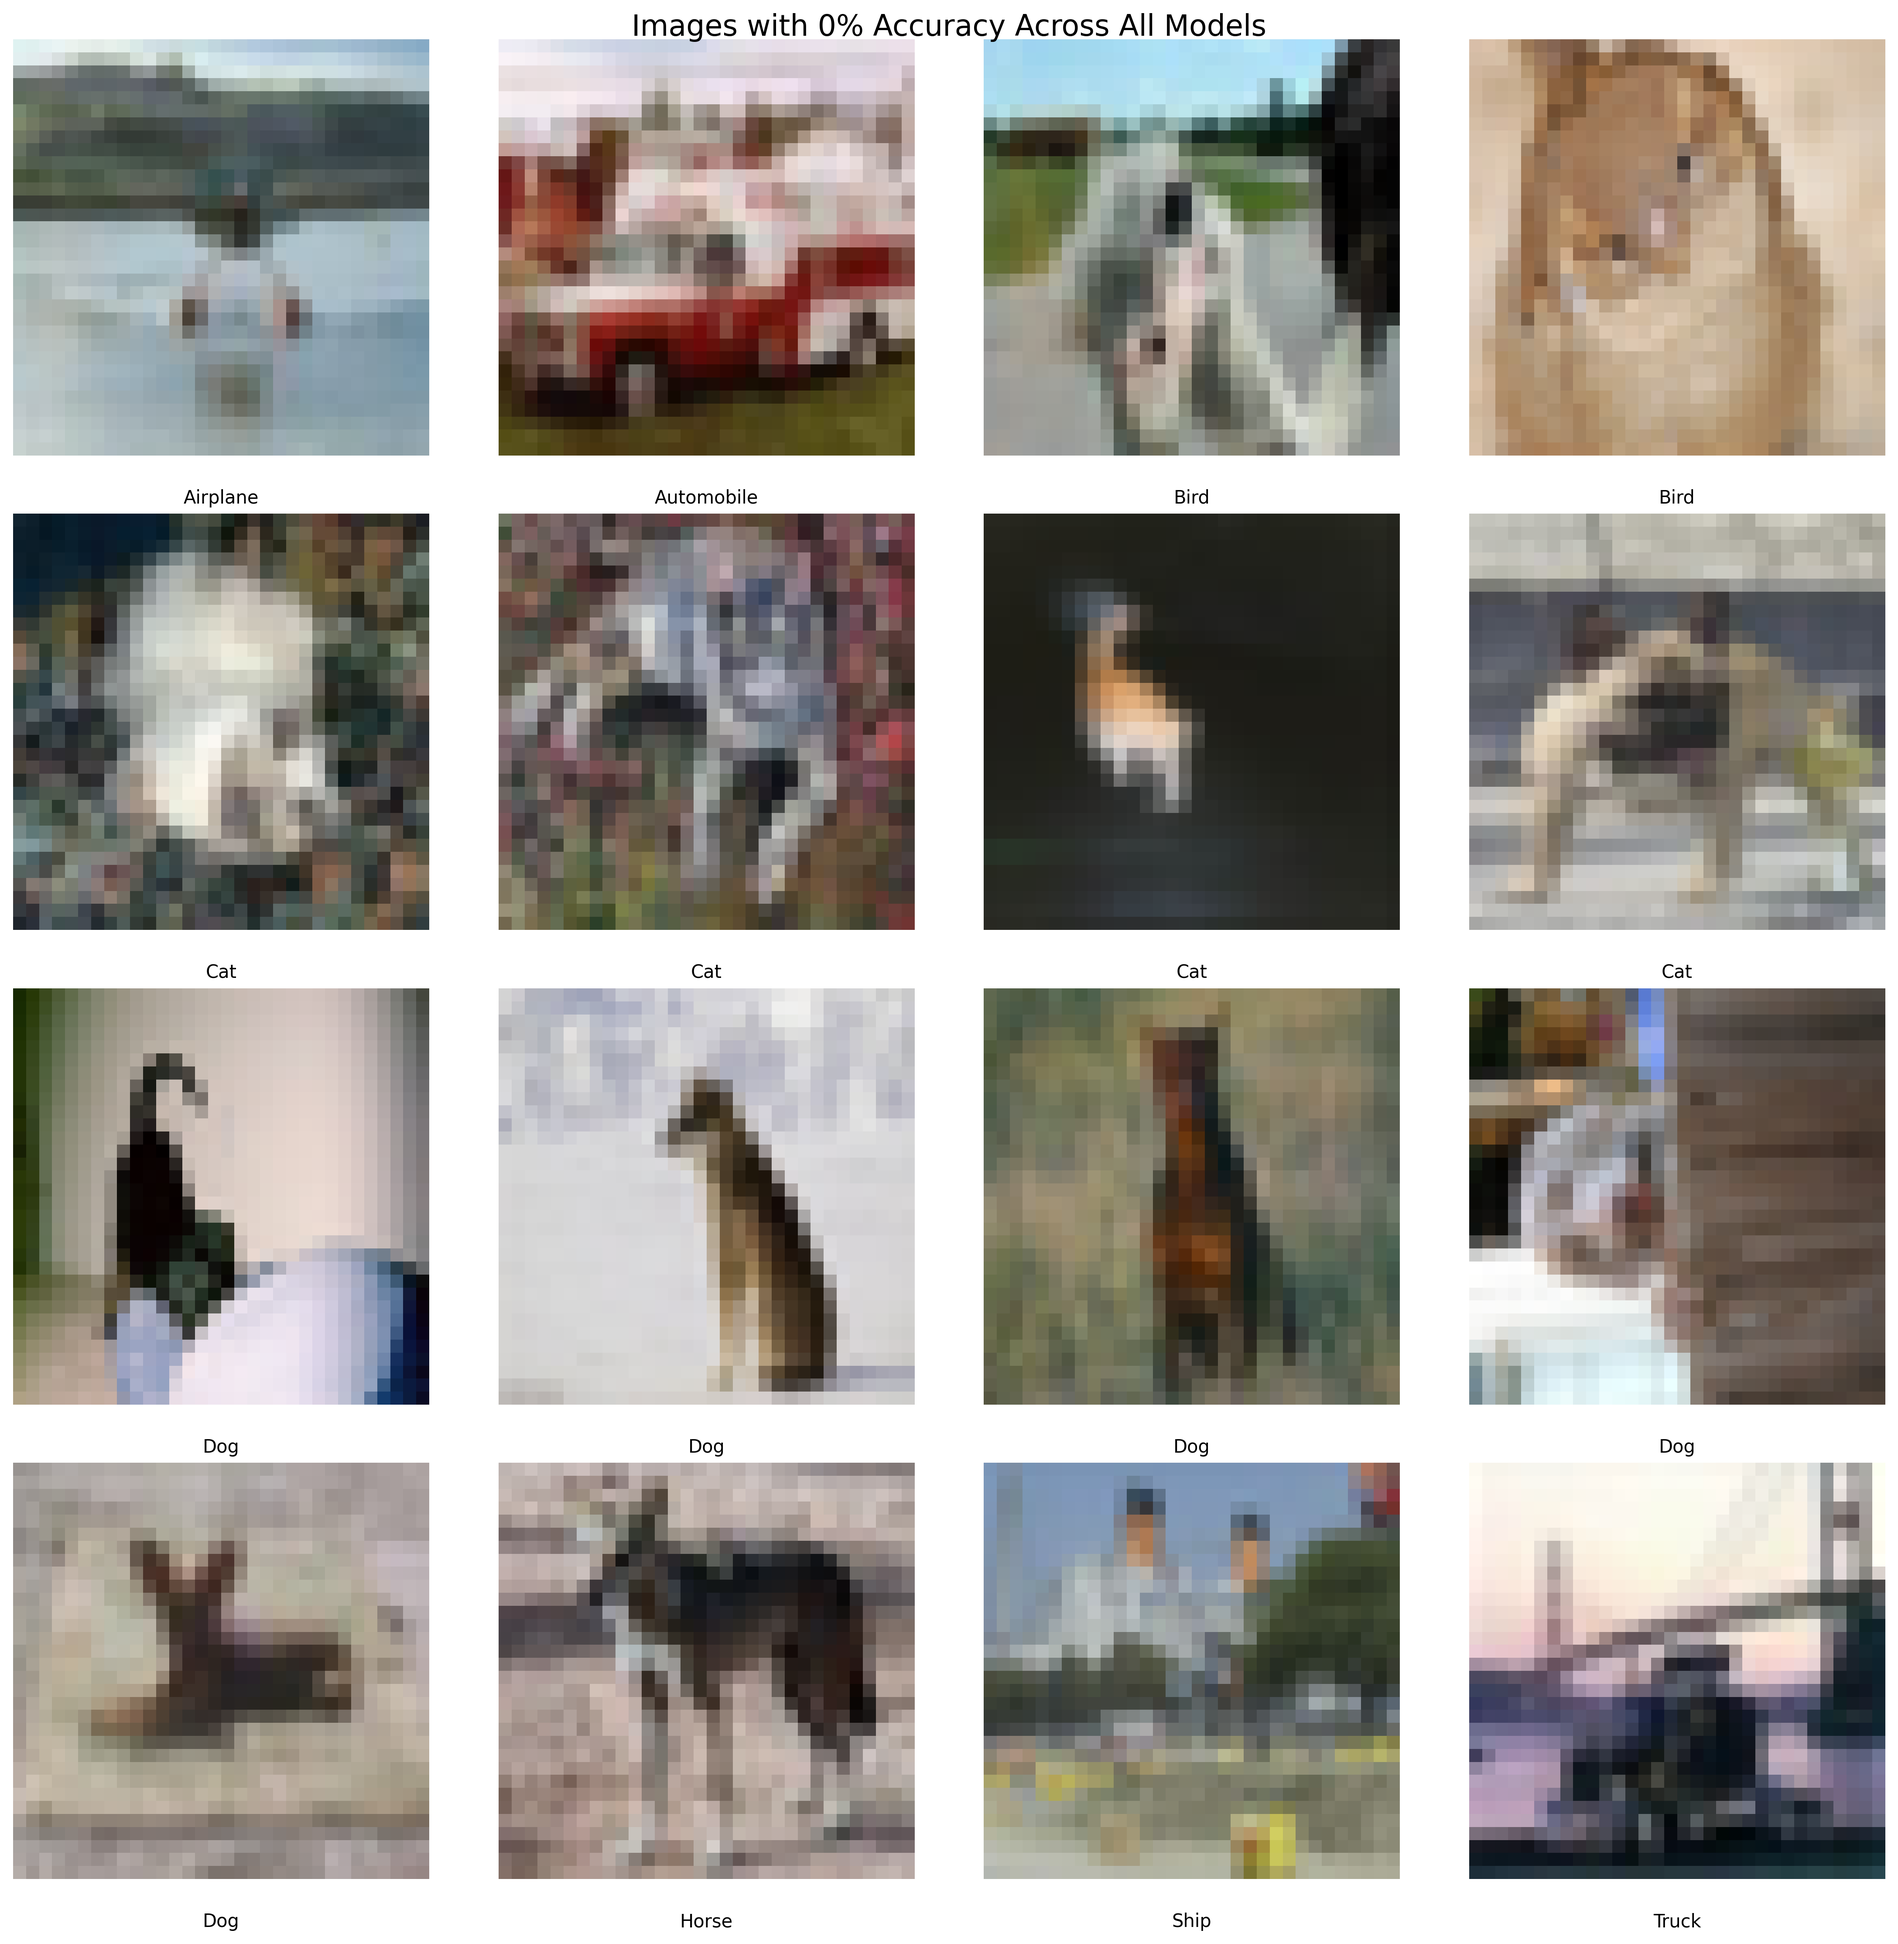
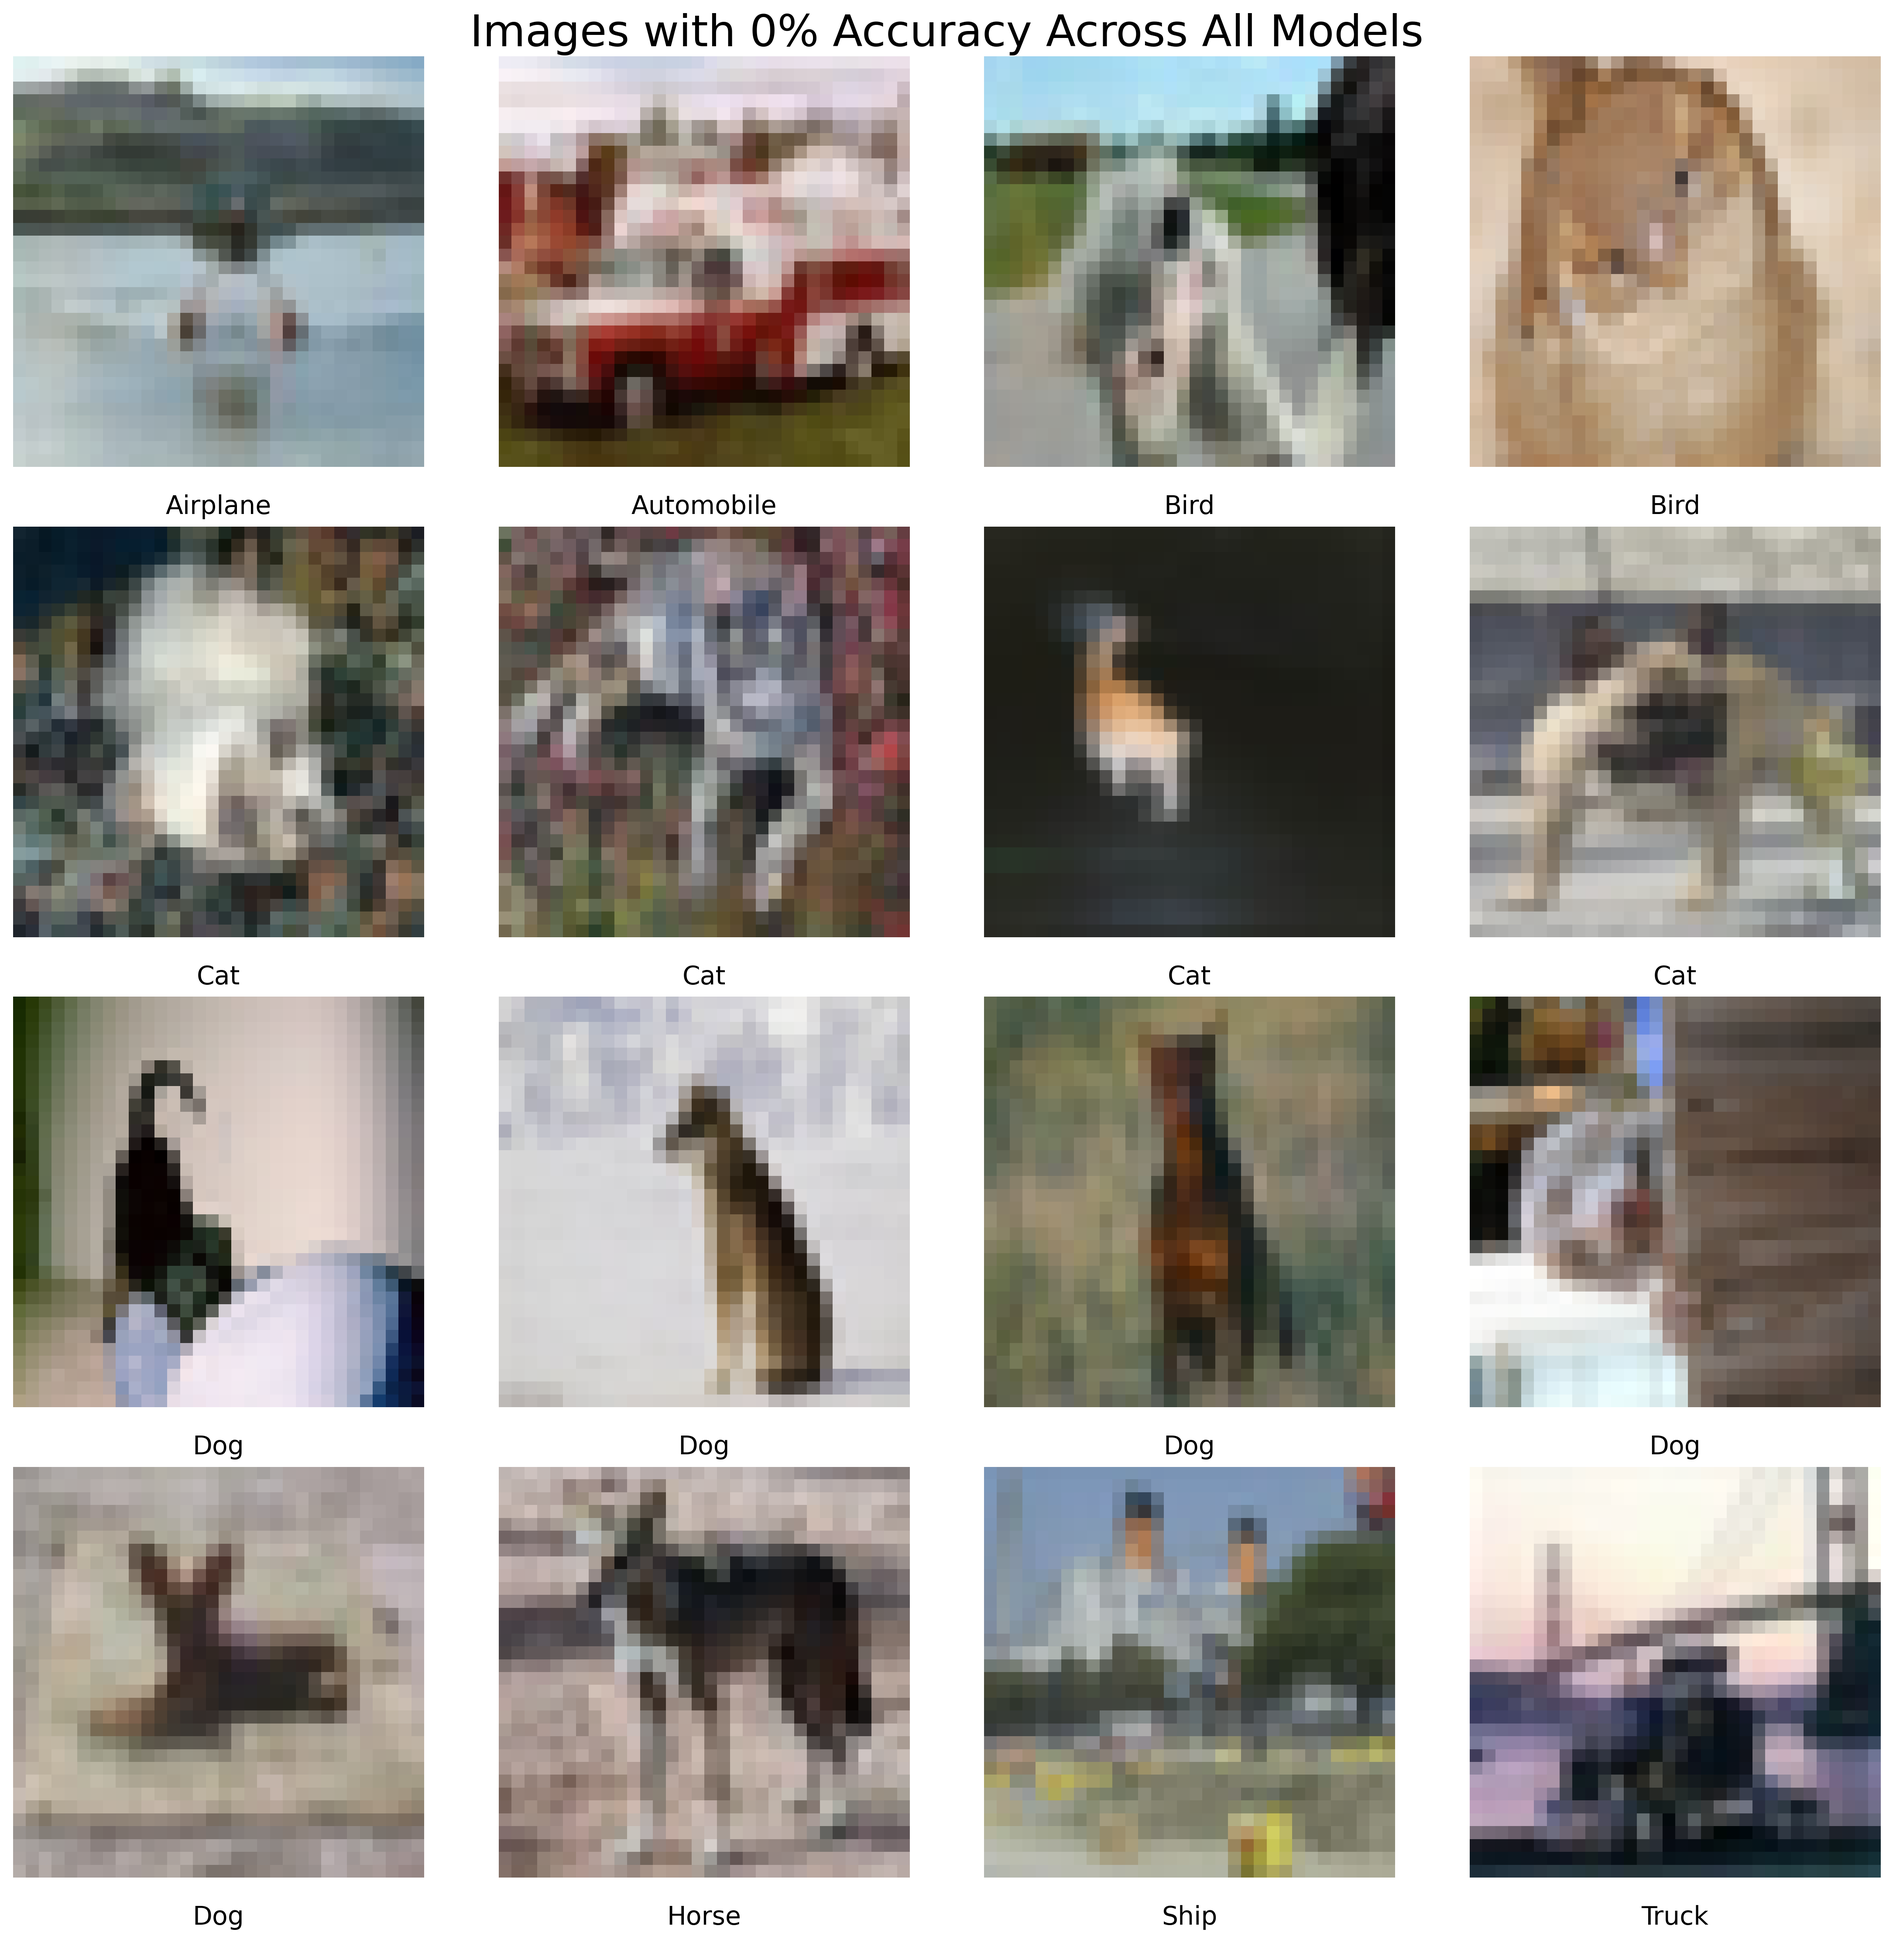
bigger font

diff --git a/cluster_investigation.py b/cluster_investigation.py
@@ -138,7 +138,7 @@ grid_size = int(np.ceil(np.sqrt(n_images)))
 
 # Create subplot grid
 fig, axes = plt.subplots(grid_size, grid_size, figsize=(15, 15))
-fig.suptitle("Images with 0% Accuracy Across All Models", fontsize=16)
+fig.suptitle("Images with 0% Accuracy Across All Models", fontsize=24)
 
 # Flatten axes for easier iteration
 axes_flat = axes.flatten()
@@ -147,7 +147,7 @@ axes_flat = axes.flatten()
 for idx, (img, label) in enumerate(zip(images, true_label_names)):
     ax = axes_flat[idx]
     ax.imshow(img)
-    ax.set_title(label, fontsize=10, pad=8, y=-0.15)  # Move title below image
+    ax.set_title(label, fontsize=14, pad=8, y=-0.15)  # Increased fontsize from 10 to 14
     ax.axis("off")
 
 # Hide empty subplots
